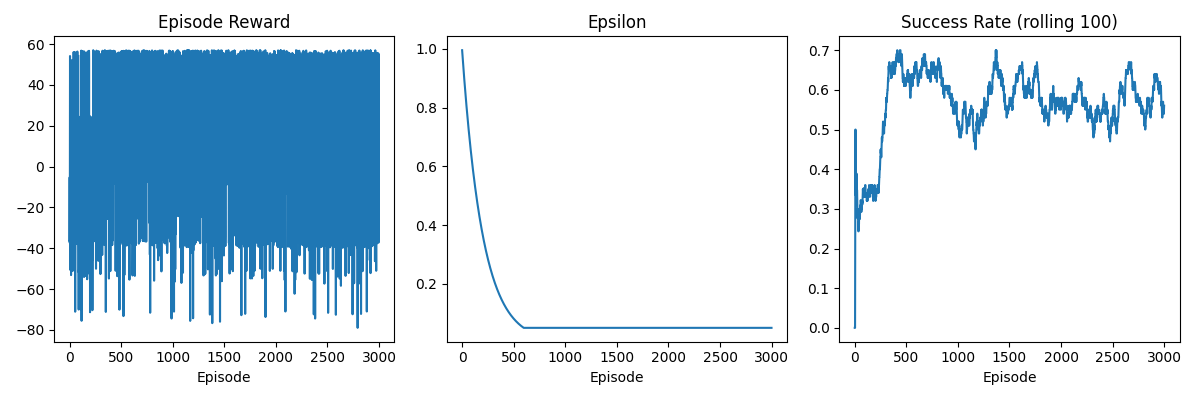
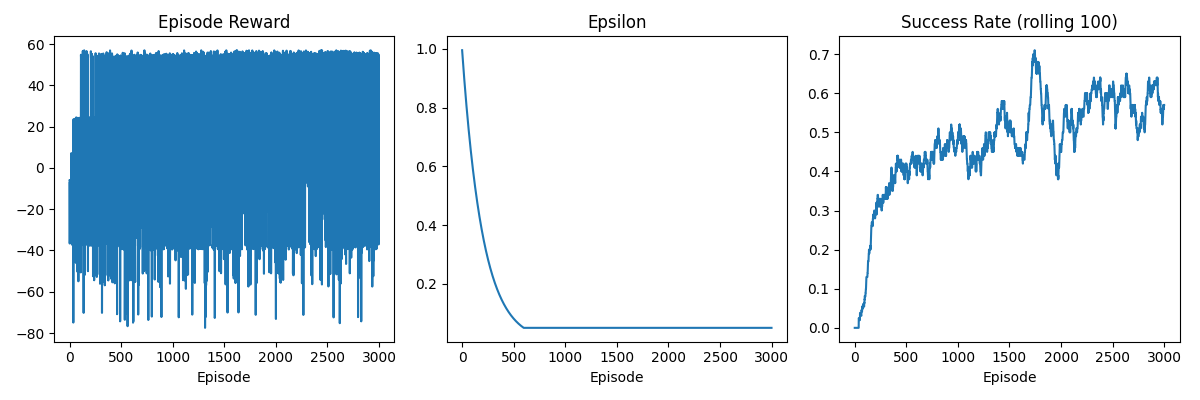
obstacles added

diff --git a/shooting_opt_c.py b/shooting_opt_c.py
@@ -52,12 +52,12 @@ class ShootingEnvB:
         self.last_shot_active = False
         self.enemy_hit = False
 
+        # obstacles
         self.obstacles = set()
         for i in range(random.randint(1, 4)):
             y = random.randint(0, self.height-1)
             x = random.randint(2, self.width-2)
             self.obstacles.add((x, y))
-
 
         # seed then reset
         self.seed(seed)
@@ -97,12 +97,7 @@ class ShootingEnvB:
         return self._get_obs()
 
     def _get_obs(self):
-        """
-        Return compact observation compatible with state_to_index:
-         (player_y, nearest_enemy_y_or_height, ammo, enemy_dir)
-         - nearest_enemy_y_or_height: the Y of the nearest alive enemy to the right
-           If no alive enemy exists, return self.height (special value).
-        """
+
         # find nearest alive enemy (smallest x) among alive enemies
         alive = [e for e in self.enemies if not e[2] and e[0] >= 0 and e[1] >= 0]
         if len(alive) == 0:
@@ -114,6 +109,9 @@ class ShootingEnvB:
 
         return (self.player_y, enemy_y, self.ammo, self.enemy_dir)
 
+    def is_obstacle(self, x, y):
+        return (x, y) in self.obstacles
+
     def step(self, action):
         """
         action: 0=Up,1=Down,2=Shoot,3=No-op
@@ -121,7 +119,8 @@ class ShootingEnvB:
           1) execute player's action
           2) handle shooting/hit
           3) move enemy
-          4) step count & terminal checks
+          4) enemy shooting
+          5) step count & terminal checks
         """
         if self.done:
             raise RuntimeError("Step called on terminated episode. Call reset().")
@@ -135,11 +134,11 @@ class ShootingEnvB:
 
         # ---------- Player action ----------
         if action == 0:  # Up
-            if self.player_y > 0:
+            if self.player_y > 0 and not self.is_obstacle(self.player_x, self.player_y - 1):
                 self.player_y -= 1
             reward -= 0.1  # small movement cost
         elif action == 1:  # Down
-            if self.player_y < self.height - 1:
+            if self.player_y < self.height - 1 and not self.is_obstacle(self.player_x, self.player_y + 1):
                 self.player_y += 1
             reward -= 0.1
         elif action == 2:  # Shoot
@@ -156,16 +155,23 @@ class ShootingEnvB:
                 if candidates:
                     # hit the nearest such enemy (smallest x)
                     target = min(candidates, key=lambda ee: ee[0])
-                    # mark hit and remove from play
-                    target[2] = True
-                    target[0] = -1
-                    target[1] = -1
-                    self.num_enemies -= 1
-                    reward += 20.0
-                    self.enemy_hit = True
-                    if self.num_enemies == 0:
-                        self.done = True
-                # else: shot misses (no extra reward)
+                    
+                    # check obstacles in between
+                    blocked = any(self.is_obstacle(x, self.player_y) 
+                                for x in range(self.player_x + 1, target[0]))
+                    
+                    if blocked:
+                        target = None
+                    elif target:
+                        # mark hit and remove from play
+                        target[2] = True
+                        target[0] = -1
+                        target[1] = -1
+                        self.num_enemies -= 1
+                        reward += 20.0
+                        self.enemy_hit = True
+                        if self.num_enemies == 0:
+                            self.done = True
             else:
                 # shooting with no ammo — heavier penalty
                 reward -= 10.0
@@ -179,7 +185,9 @@ class ShootingEnvB:
             if not self.done and not e[2]:
                 if self.enemy_behavior == "random":
                     move = np.random.choice([-1, 0, 1])  # allow stay for smoother motion
-                    e[1] = max(0, min(e[1] + move, self.height - 1))
+                    new_y = max(0, min(e[1] + move, self.height - 1))
+                    if not self.is_obstacle(e[0], new_y):
+                        e[1] = new_y
                     if move > 0:
                         self.enemy_dir = 1
                     elif move < 0:
@@ -193,7 +201,9 @@ class ShootingEnvB:
                         self.enemy_dir *= -1
                     for ee in self.enemies:
                         if not ee[2]:
-                            ee[1] = max(0, min(ee[1] + self.enemy_dir, self.height - 1))
+                            new_y = max(0, min(ee[1] + self.enemy_dir, self.height - 1))
+                            if not self.is_obstacle(ee[0], new_y):
+                                ee[1] = new_y
                 else:
                     # static: do nothing
                     pass
@@ -208,10 +218,14 @@ class ShootingEnvB:
             
         new_shots = []
         for sx, sy in self.enemy_shots:
-            sx -= self.enemy_shot_speed
-            if sx >= 0:
-                new_shots.append([sx, sy])
+            new_x = sx - self.enemy_shot_speed
+            # bullet hits obstacle → disappears
+            if new_x >= 0 and self.is_obstacle(new_x, sy):
+                continue
+            if new_x >= 0:
+                new_shots.append([new_x, sy])
         self.enemy_shots = new_shots
+
         for sx, sy in self.enemy_shots:
             if sx == self.player_x and sy == self.player_y:
                 reward -= 20
@@ -302,6 +316,11 @@ class ShootingUI:
             pygame.image.load("assets/enemy_bullet.png"),
             (cell_size, cell_size // 2)
         )
+        
+        self.obstacle_sprite = pygame.transform.scale(
+            pygame.image.load("assets/obstacle.png"),
+            (cell_size, cell_size // 2)
+        )
 
     def draw_grid(self):
         for y in range(self.env.height):
@@ -352,6 +371,11 @@ class ShootingUI:
             sprite = self.enemy_bullet_sprite   # load like others
             self.screen.blit(sprite, (sx*self.cell_size, sy*self.cell_size))
 
+    def draw_obstacles(self):
+        for (ox, oy) in self.env.obstacles:
+            self.screen.blit(self.obstacle_sprite,
+                            (ox*self.cell_size, oy*self.cell_size))
+    
 
     def render_ui(self, fps=10):
         for event in pygame.event.get():
@@ -365,6 +389,7 @@ class ShootingUI:
         self.draw_enemies()
         self.draw_shot()
         self.draw_enemy_shots()
+        self.draw_obstacles()
 
         pygame.display.flip()
         self.clock.tick(fps)
